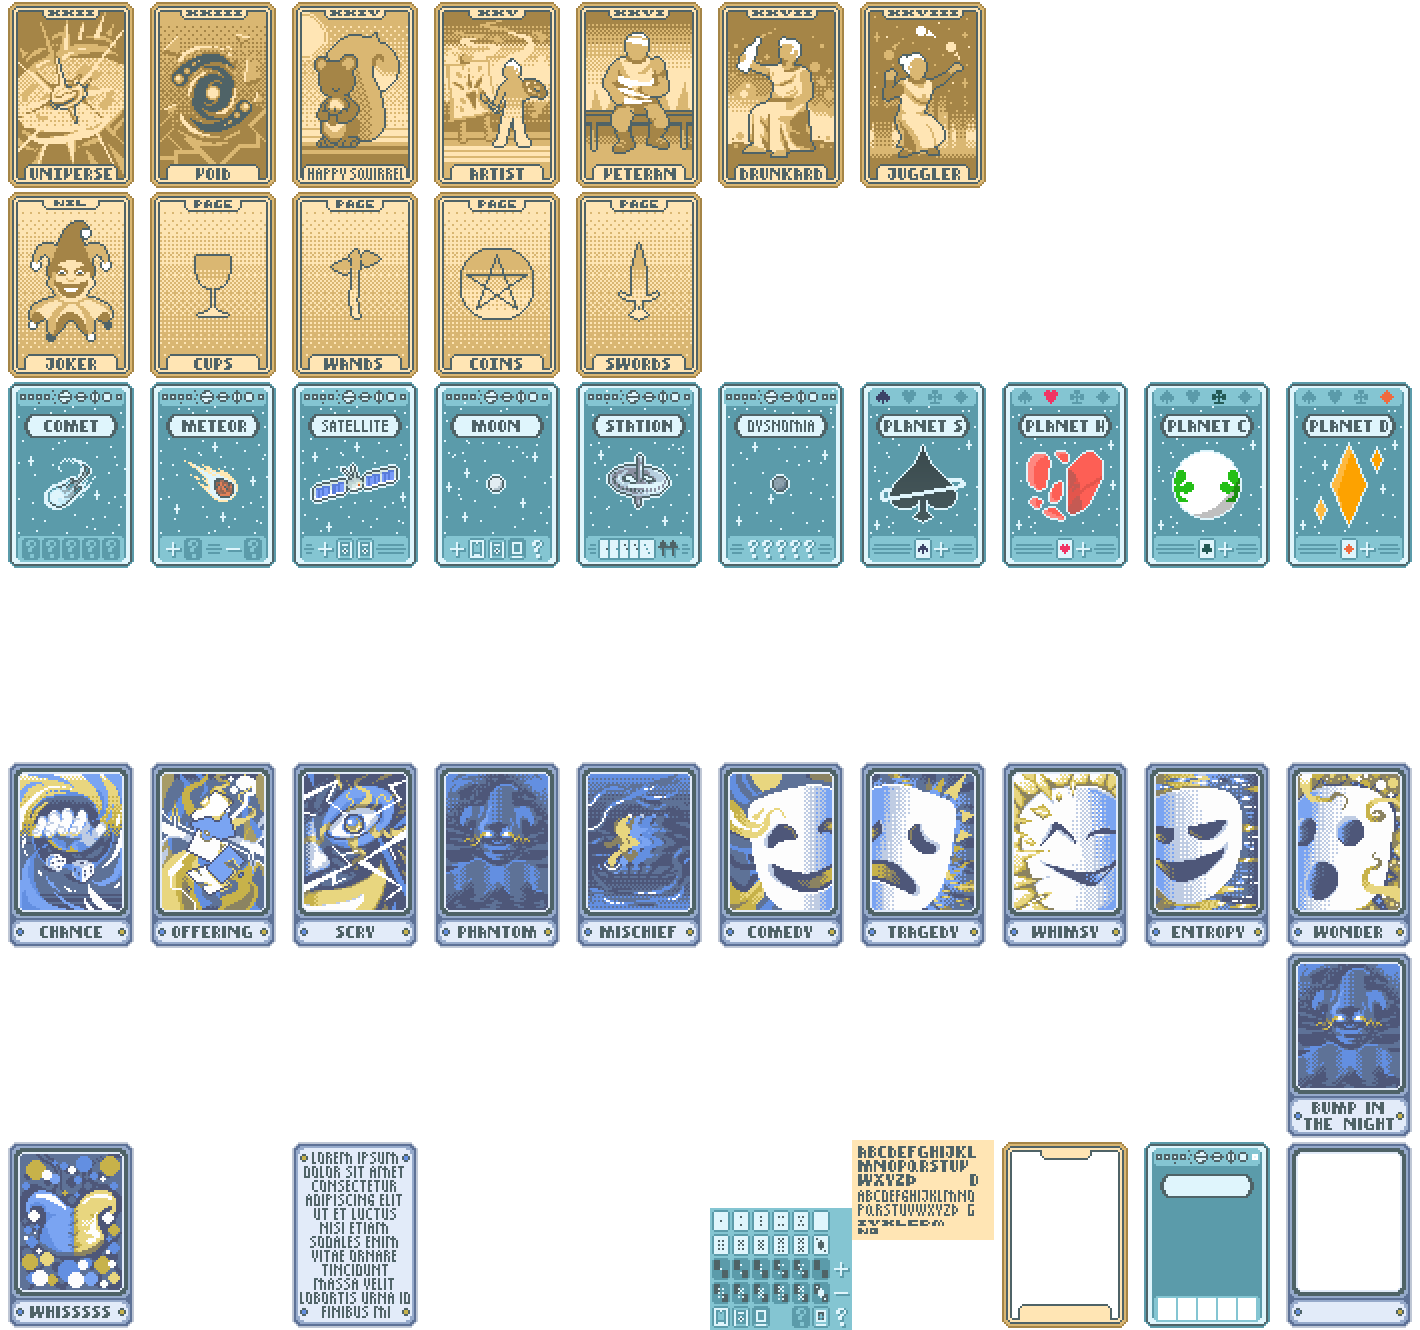
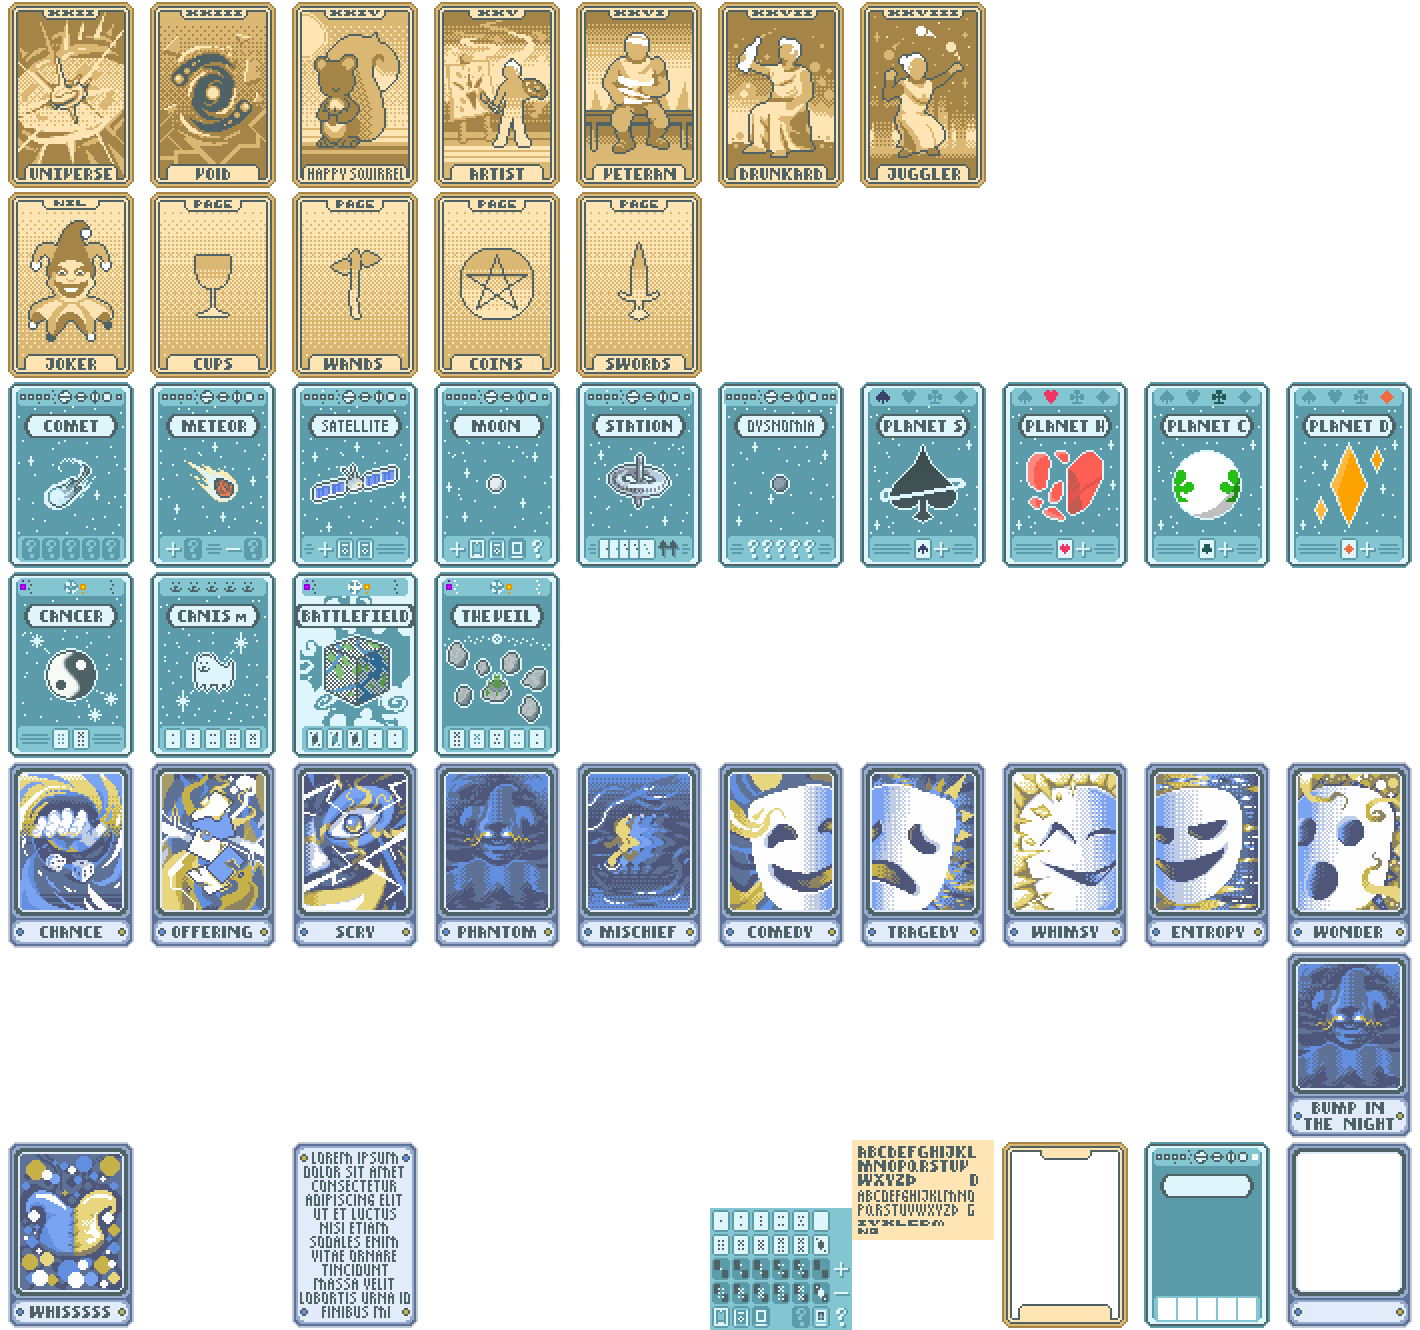
e new sprites fritz thanks

Changed region(s): [[0.0, 0.4316, 0.4028, 0.5857]]

diff --git a/README.md b/README.md
@@ -16,6 +16,7 @@ Lyman - Art and good taste
 itayfeder - Mr. Bones stamp and Vampire stamp, porting stamp code  
 akai - Estradiol oddity art  
 Jevonn - Planet S, H, C, D art
+Fritz Lancastor - Some hand planet art
 
 LocalThunk - Balatro and its assets
 Homestuck - Homestuck (as far as I know all referenced material here was made by Andrew Hussie)
